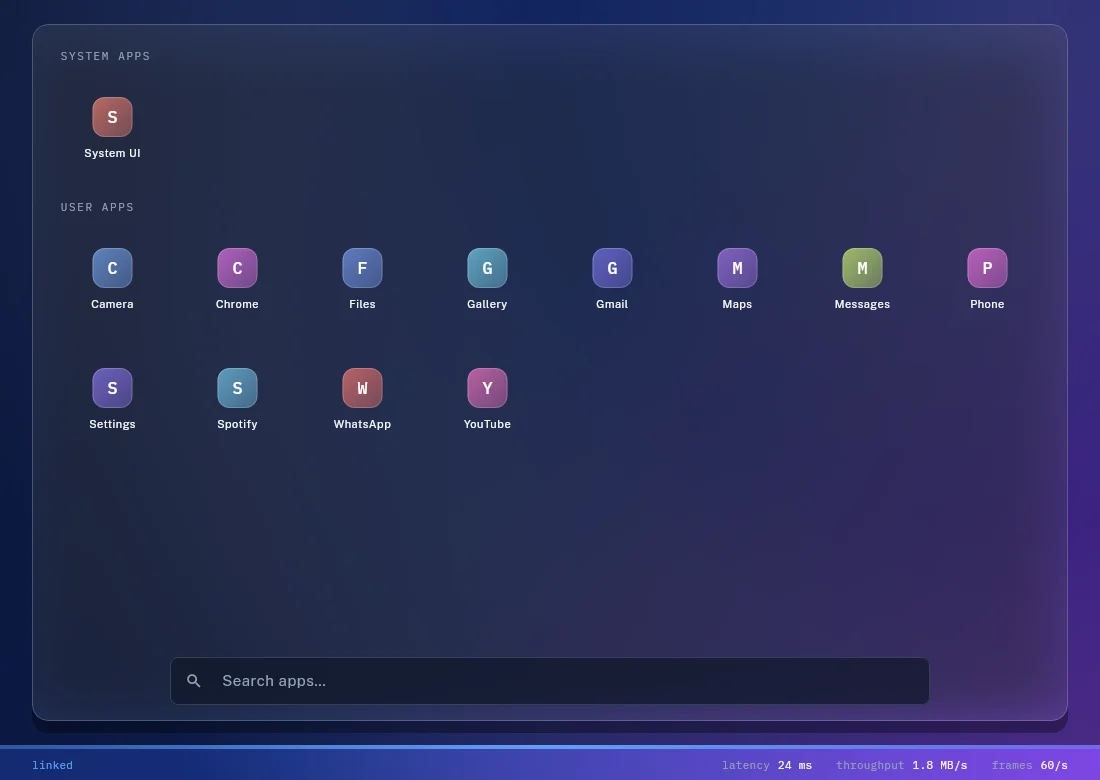
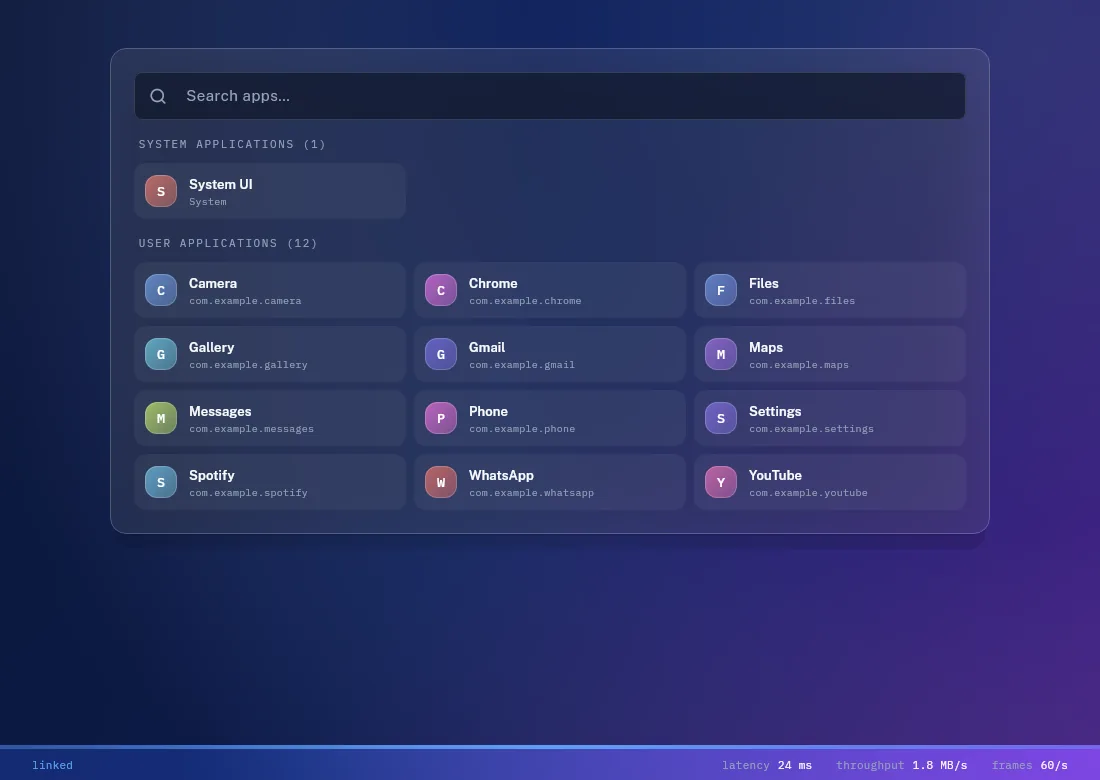
fix: the three things the plan listed and the work skipped (#62)
The overlay card. Every surface goes through GlassPanel except the one
that most needs it: the shell's modal card hand-rolled its own fill, its
own hairline and its own blur, at 28 rather than the committed 24. That is
precisely how a glass design drifts into eleven glasses, and it was
written down as a job before any of this started. The scrim keeps a blur
of its own — it is a scrim, not a panel — but now at the committed sigma.

The command palette. It had no golden, which is how the surface every
shell action is reached through went unlooked-at while its tests stayed
green. It has one now, in both themes, carrying an entry from each group.
Looking at it turned up two things: it led with a chevron where the
reference leads with a search mark in signal, and it never said how to
drive it, which matters for a surface that is keyboard-first and whose
keys are not guessable from looking at it.

The website. Its three screenshots — desk, launcher, connection — were
taken before this rework and showed an interface that no longer exists.
Regenerated from the current goldens, which match the dimensions the page
already declares.

diff --git a/apps/desktop/test/ui/command_palette_golden_test.dart b/apps/desktop/test/ui/command_palette_golden_test.dart
@@ -1,0 +1,107 @@
+@Tags(<String>['golden'])
+library;
+
+import 'dart:io';
+
+import 'package:flutter/material.dart';
+import 'package:flutter/services.dart';
+import 'package:flutter_test/flutter_test.dart';
+import 'package:open_android_dex/ui/shell/command_palette.dart';
+import 'package:open_android_dex/ui/shell/commands.dart';
+import 'package:open_android_dex/ui/theme/dex_theme.dart';
+import 'package:open_dex_api/open_dex_api.dart';
+
+Future<void> _loadFonts() async {
+  const Map<String, List<String>> families = <String, List<String>>{
+    'Lucide': <String>['assets/icons/lucide.ttf'],
+    'SpaceGrotesk': <String>['assets/fonts/SpaceGrotesk.ttf'],
+    'PublicSans': <String>['assets/fonts/PublicSans.ttf'],
+    'IBMPlexMono': <String>[
+      'assets/fonts/IBMPlexMono-Regular.ttf',
+      'assets/fonts/IBMPlexMono-Medium.ttf',
+    ],
+  };
+  for (final MapEntry<String, List<String>> e in families.entries) {
+    final FontLoader loader = FontLoader(e.key);
+    for (final String path in e.value) {
+      final File f = File(path);
+      if (f.existsSync()) {
+        loader.addFont(
+          Future<ByteData>.value(ByteData.sublistView(f.readAsBytesSync())),
+        );
+      }
+    }
+    await loader.load();
+  }
+}
+
+/// The command palette had no baseline.
+///
+/// It is the surface every shell action is reachable through, and nothing had
+/// ever looked at it — which is how a screen goes unchecked while its tests
+/// stay green. It groups by APPS / WINDOWS / DEVICE / SHELL, so the golden
+/// carries one of each.
+void main() {
+  setUpAll(_loadFonts);
+
+  const List<AndroidApplication> apps = <AndroidApplication>[
+    AndroidApplication(packageName: 'com.android.chrome', label: 'Chrome'),
+    AndroidApplication(packageName: 'com.spotify.music', label: 'Spotify'),
+  ];
+
+  final List<WindowSessionState> windows = <WindowSessionState>[
+    const WindowSessionState(
+      id: 'w1',
+      application: AndroidApplication(
+        packageName: 'com.google.maps',
+        label: 'Maps',
+      ),
+      status: WindowSessionStatus.streaming,
+    ),
+  ];
+
+  Future<void> shoot(
+    WidgetTester tester, {
+    required ThemeData theme,
+    required String name,
+  }) async {
+    await tester.binding.setSurfaceSize(const Size(880, 620));
+    addTearDown(() => tester.binding.setSurfaceSize(null));
+    await tester.pumpWidget(
+      MaterialApp(
+        theme: theme,
+        home: Scaffold(
+          body: CommandPalette(
+            commands: buildCommands(
+              applications: apps,
+              windows: windows,
+              shellEntries: <DexCommandEntry>[
+                DexCommandEntry(title: 'Open settings', run: () {}),
+                DexCommandEntry(title: 'Show design tokens', run: () {}),
+                DexCommandEntry(title: 'Toggle the phone mirror', run: () {}),
+              ],
+              onLaunchApplication: (_) {},
+              onFocusWindow: (_) {},
+            ),
+            onDismiss: () {},
+          ),
+        ),
+      ),
+    );
+    for (int i = 0; i < 5; i++) {
+      await tester.pump(const Duration(milliseconds: 120));
+    }
+    await expectLater(
+      find.byType(CommandPalette),
+      matchesGoldenFile('goldens/$name.png'),
+    );
+  }
+
+  testWidgets('command palette, dark', (WidgetTester tester) async {
+    await shoot(tester, theme: DexTheme.dark(), name: 'command_palette_dark');
+  });
+
+  testWidgets('command palette, light', (WidgetTester tester) async {
+    await shoot(tester, theme: DexTheme.light(), name: 'command_palette_light');
+  });
+}

diff --git a/apps/desktop/lib/ui/shell/app_shell.dart b/apps/desktop/lib/ui/shell/app_shell.dart
@@ -23,7 +23,7 @@ import 'shortcut_sheet.dart';
 import 'window_controller.dart';
 import 'shortcuts.dart';
 import '../motion/dex_motion.dart';
-import '../theme/dex_colors.dart';
+import '../theme/dex_glass.dart';
 import '../connect/connection_screen.dart';
 import '../permissions/permission_panel.dart';
 import '../motion/sustained.dart';
@@ -1167,7 +1167,6 @@ class _Overlay extends StatelessWidget {
 
   @override
   Widget build(BuildContext context) {
-    final DexColors c = Theme.of(context).extension<DexColors>()!;
     final bool isDark = Theme.of(context).brightness == Brightness.dark;
 
     final Widget body = Stack(
@@ -1193,8 +1192,9 @@ class _Overlay extends StatelessWidget {
                   ),
                 );
                 if (!GlassBlurScope.of(context)) return scrim;
+                final double sigma = DexGlass.of(context).blur;
                 return BackdropFilter(
-                  filter: ui.ImageFilter.blur(sigmaX: 28, sigmaY: 28),
+                  filter: ui.ImageFilter.blur(sigmaX: sigma, sigmaY: sigma),
                   child: scrim,
                 );
               },
@@ -1206,21 +1206,15 @@ class _Overlay extends StatelessWidget {
             padding: const EdgeInsets.all(DexSpace.xxl),
             child: ConstrainedBox(
               constraints: const BoxConstraints(maxWidth: 880, maxHeight: 620),
-              child: ClipRRect(
-                borderRadius: BorderRadius.circular(DexRadius.dialog),
-                child: DecoratedBox(
-                  decoration: BoxDecoration(
-                    color: c.bg.withValues(alpha: isDark ? 0.92 : 0.96),
-                    borderRadius: BorderRadius.circular(DexRadius.dialog),
-                    border: Border.all(
-                      color: isDark
-                          ? Colors.white.withValues(alpha: 0.08)
-                          : Colors.black.withValues(alpha: 0.06),
-                      width: DexStroke.hairline,
-                    ),
-                  ),
-                  child: child,
-                ),
+              // GlassPanel, like every other surface. This card used to
+              // hand-roll its own fill, its own hairline and its own blur — at
+              // 28 rather than the committed 24 — which made the one place
+              // that most needs the shared primitive the one place not using
+              // it. That is how a glass design drifts into eleven glasses.
+              child: GlassPanel(
+                radius: DexRadius.dialog,
+                fill: DexGlass.of(context).substrate,
+                child: child,
               ),
             ),
           ),

diff --git a/apps/desktop/lib/ui/shell/command_palette.dart b/apps/desktop/lib/ui/shell/command_palette.dart
@@ -113,7 +113,7 @@ class _CommandPaletteState extends State<CommandPalette> {
             decoration: InputDecoration(
               hintText: 'Type a command…',
               hintStyle: t.bodyLarge?.copyWith(color: c.muted),
-              prefixIcon: Icon(DexIcons.forward, size: 18, color: c.muted),
+              prefixIcon: Icon(DexIcons.search, size: 18, color: c.signal),
               filled: true,
               fillColor: c.surface.withValues(alpha: 0.72),
               contentPadding: const EdgeInsets.symmetric(
@@ -163,6 +163,15 @@ class _CommandPaletteState extends State<CommandPalette> {
               setState(() => _selected = i);
               _runSelected();
             }, onHover: (int i) => setState(() => _selected = i))),
+          // How to drive it. The palette is keyboard-first and the keys are
+          // not guessable from looking at it.
+          const SizedBox(height: DexSpace.md),
+          Divider(color: c.line, height: DexStroke.hairline),
+          const SizedBox(height: DexSpace.sm),
+          Text(
+            'Up and Down to choose  \u00b7  Enter to run  \u00b7  Esc to close',
+            style: DexTheme.data(c, size: 10),
+          ),
         ],
       ),
     );

diff --git a/CHANGELOG.md b/CHANGELOG.md
@@ -29,6 +29,16 @@ Desktop shell improvements. Keyboard, launcher and window management.
   from a design direction this product no longer uses. A baseline nothing
   compares against is not a baseline; it is a picture of how things used to
   look, sitting in the folder where the record of how they do look is kept.
+- Overlay cards go through the shared glass panel like everything else. The one
+  surface that most needed the shared primitive was the one hand-rolling its
+  own fill, hairline and blur — at 28 rather than the committed 24.
+- The command palette leads with a search mark rather than a chevron, and says
+  how to drive it. It is keyboard-first and the keys were not guessable from
+  looking at it. It also gains a golden in both themes: nothing had ever looked
+  at the surface every shell action is reached through.
+- The website's three screenshots are regenerated from the current interface.
+  They showed the desk, launcher and connection screen as they were before this
+  rework.
 - Shadows match the reference exactly. Every panel had been carrying one layer
   of black at 35% with no spread — three and a half times the ink, spreading
   wider than the panel it belonged to, which over a lit wallpaper reads as a
